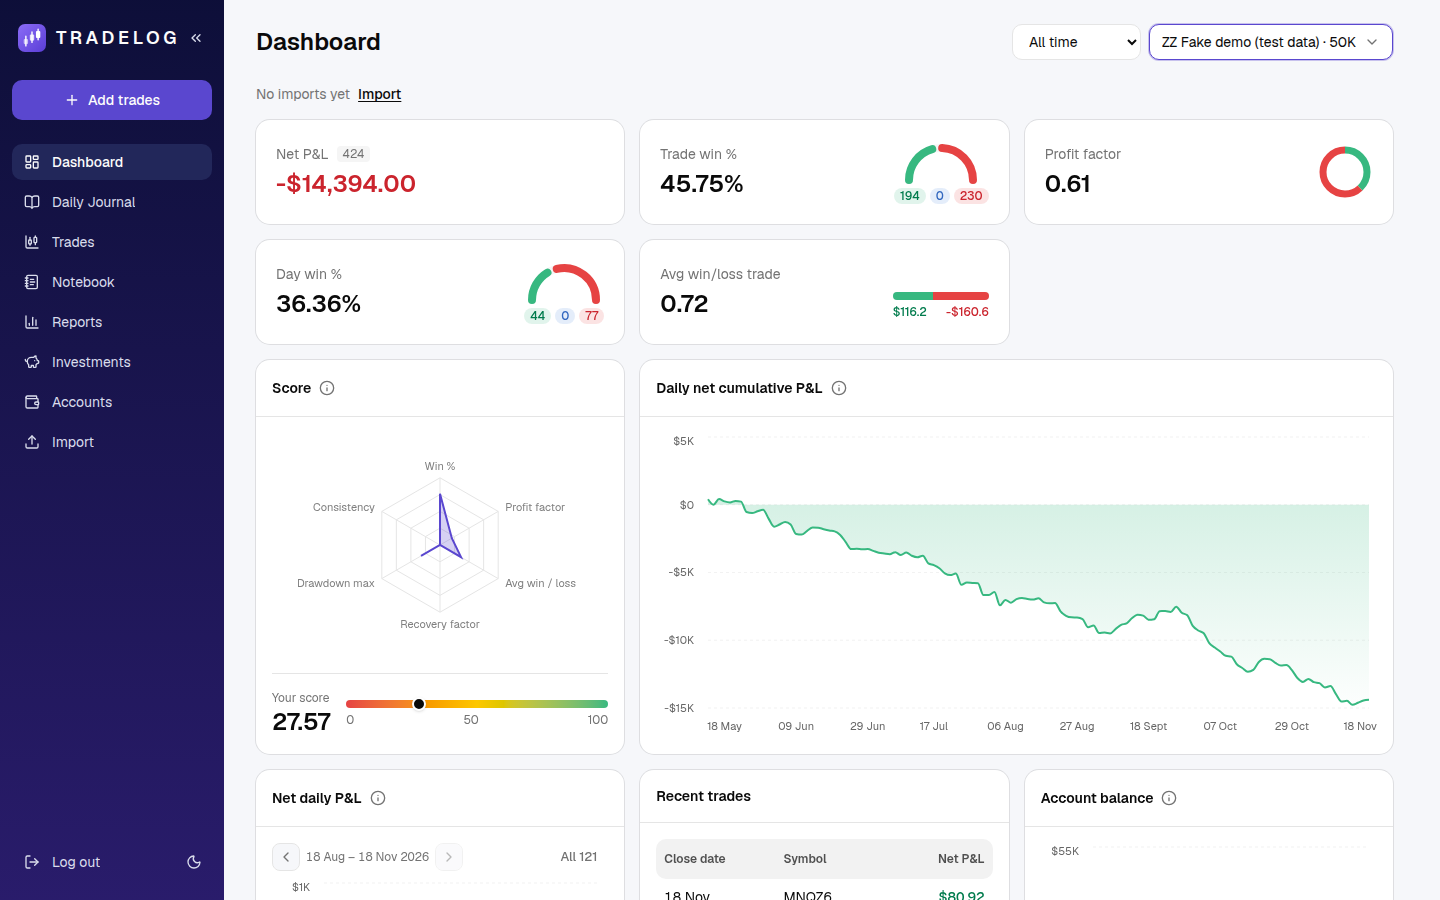
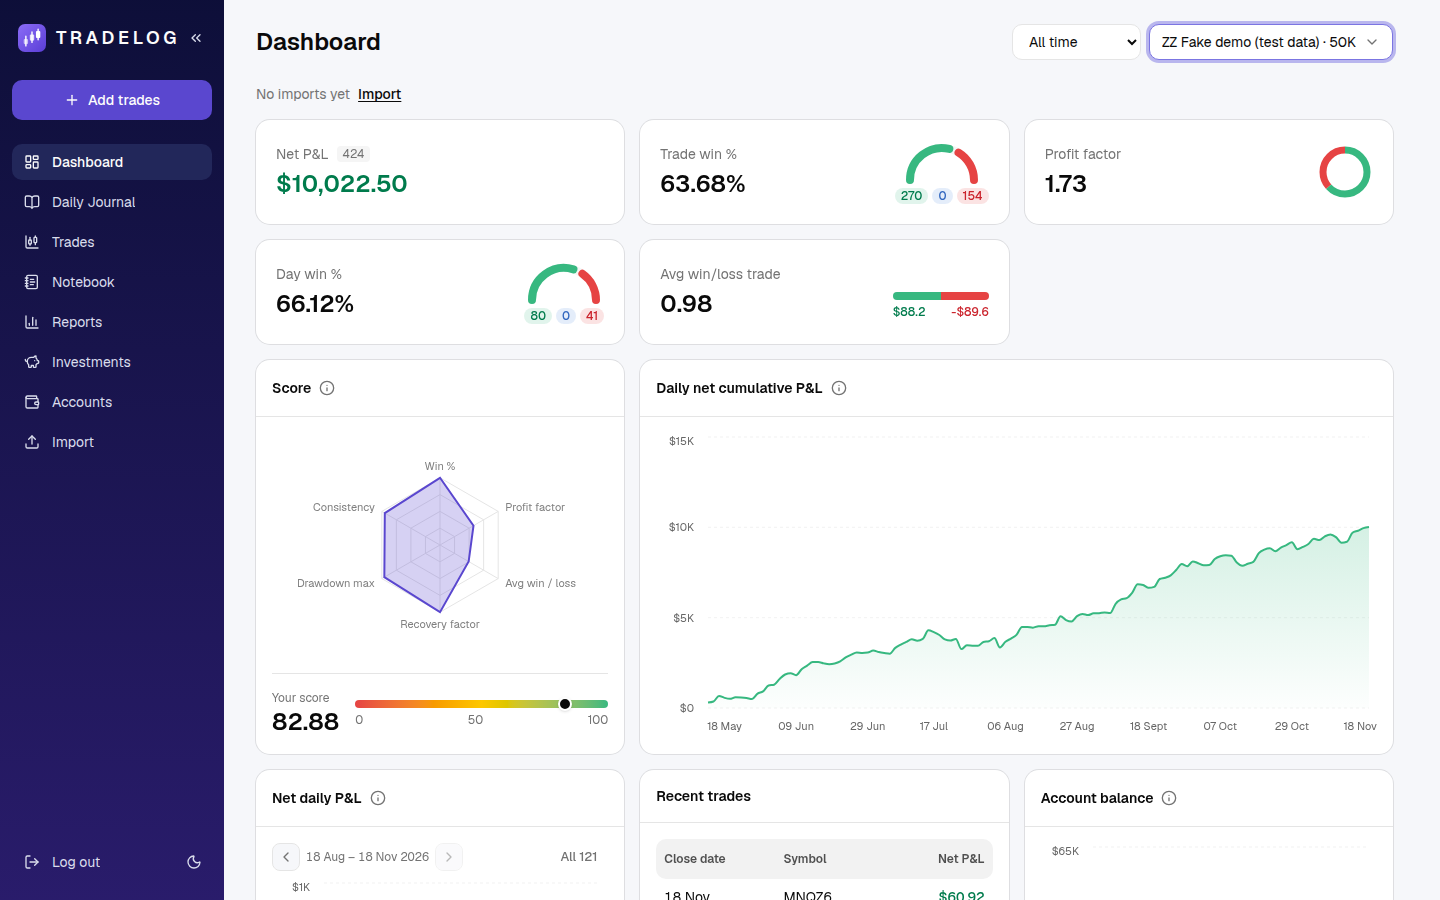
Add agent docs, profitable demo data and new screenshots

diff --git a/CLAUDE.md b/CLAUDE.md
@@ -1,0 +1,62 @@
+# Tradelog
+
+Application personnelle (usage solo) de suivi de trades et de journal pour le NQ et le MNQ. Projet personnel, pas professionnel.
+
+@AGENTS.md
+
+**Garder ce fichier court** : l'essentiel seulement, pas de détail qui se lit dans le code.
+
+## Contexte trading
+
+- Instruments : NQ et MNQ uniquement (tick 0,25 pt ; point = 20 $ / 2 $). Comptes de prop firms via Tradovate : un seul format d'import.
+- Règles par compte saisies à la main (rien en dur), calcul dans `src/lib/accounts/account-rules.ts` sur le P&L réalisé : approximatif, le latent n'est pas dans les fichiers.
+- **Journée de trading = session de futures : 18h → 17h heure de New York** (`dayKey`, `TRADING_TIMEZONE` dans `src/lib/trading/stats.ts`). Tout regroupement par jour passe par `dayKey`. Heures affichées en New York, étiquetées « ET ».
+- Win % et day win % excluent les break-even. Avg win/loss = gain moyen / perte moyenne.
+- **Break-even** : sortie entre −0,25 et +2,25 pt par contrat (`describeTrade`, `src/lib/trading/trade.ts`), forçable par trade (`break_even_override`). Les BE n'entrent ni dans gagnants ni dans perdants, mais leur argent reste dans le P&L.
+- Score (`src/lib/trading/score.ts`) : moyenne de 6 notes sur 100, repères empiriques.
+
+## Interface
+
+- Barre latérale sombre, cartes, gains verts / pertes rouges, accent violet. Mode clair et sombre (`.dark` sur `<html>`), couleurs par jeton dans `globals.css` (`--profit`, `--loss`, `--be`).
+- **Textes en anglais**, dates en jour/mois/année (locale `en-GB`), nombres en `en-US`.
+- Filtre de compte (`?account=`) : défaut par page (`defaultScopeFor`, `src/lib/filters.ts`). Un choix explicite l'emporte.
+- **Mobile** : sous 640 px ou écran tactile, tout contrôle ≥ 44 px et champs 16 px. Pas de défilement horizontal, pas de tableau large, toute grille de page a `grid-cols-1` en base.
+- **Graphiques** : pas d'animation Recharts sur les séries (coût proportionnel au nombre de trades). Les graphiques à fenêtres gardent une échelle verticale sur tout l'historique.
+- Titre d'onglet : une balise `<title>` dans chaque page (`PageHeader`), jamais `metadata.title` dans le layout.
+
+## Stack et conventions
+
+- Next.js 16 (App Router, `src/`, alias `@/*`), TypeScript, Tailwind 4, shadcn/ui sur Base UI, Recharts, Tiptap, Neon Postgres + Drizzle. Doc de Next dans `node_modules/next/dist/docs/` : la lire avant de coder.
+- `cacheComponents: true` : toute lecture de la base, de `cookies` ou de `searchParams` se fait dans un composant async sous `<Suspense>`. Une page `loading.tsx` par route.
+- Mutations : Server Actions (`"use server"`) avec `useActionState`, puis `refresh()`. **Chaque action commence par `await requireAuth()`** (un test le vérifie ; seules `login` et `logout` sont exemptées).
+- Accès : mot de passe unique (`APP_PASSWORD` 12+ caractères, `SESSION_SECRET` 32+), `src/proxy.ts`. En production, un mot de passe absent verrouille tout : ne jamais « corriger » en ouvrant.
+- Pages dans `src/app/(app)/`, composants dans `src/components/<page>/`, logique pure et testée dans `src/lib/<domaine>/` (tests à côté). Prettier : sans point-virgule, guillemets doubles, 100 colonnes.
+
+## Commandes
+
+- `npm run dev:test` : serveur de dev sur une branche Neon `test`. **`npm run dev` lit `.env.local`, donc la base réelle** : à éviter pour développer.
+- `npm test`, `npm run lint`, `npm run typecheck`, `npm run format:check`, `npm run build` : la CI les enchaîne, les lancer avant tout commit.
+- `npm run db:generate` après un changement de `src/db/schema.ts`. `npm run db:migrate` vise la base de `.env.local`.
+- `npm run backup` / `npm run restore -- <fichier>` : export / import JSON dans `backups/` (ignoré par git).
+- `scripts/seed-fake-trades.mjs [clear]` : faux historique sur la branche test seulement (refuse de tourner contre la base réelle).
+
+## Échelle et limites
+
+- Ne jamais lire toute une table pour filtrer en JS : `getTrades` et `getTradeResultsByAccount` chargent tous les trades, à remplacer par du SQL avant ~50 000 trades.
+- Neon gratuit : 1 Go, 100 CU-heures par mois, 6 h d'historique. Tout appel réveille la base : jamais de polling direct.
+- **Cache des pages** : un wrapper qui lit `searchParams` + un composant `"use cache"` qui reçoit des props sérialisables. Toute écriture de données appelle `afterWrite()` (action) ou `invalidateData()` (route) : `src/lib/cache-coverage.test.ts` le vérifie.
+
+## Import et synchro Tradovate
+
+- `Fills.csv` donne les trades ; `Cash History.csv` (facultatif) donne les frais réels. Trades reconstruits en FIFO par compte et contrat ; P&L net = brut − frais. Idempotent (clé = Fill ID). Ne jamais committer d'exports réels (identifiants de compte) : fixtures anonymisées.
+- La synchro tourne dans un runner GitHub Actions (`.github/workflows/cloud-sync.yml`, navigateur Playwright). Les routes `/api/sync/*` sont authentifiées par `SYNC_TOKEN`. Les logins Tradovate sont chiffrés (`CREDENTIALS_KEY`) : **jamais de login ni de secret dans git, les journaux ou un message**.
+- Un compte dont le solde a franchi le seuil est proposé « blown / closed » à confirmer, jamais changé automatiquement.
+
+## Notes et base de données
+
+- Notes en JSON Tiptap, nettoyées côté serveur (`src/lib/note.ts`, liste blanche).
+- Pas de `LIKE` sur une colonne `date`. Driver `neon-http` : pas de transactions interactives, utiliser `db.batch`.
+
+## Plus tard
+
+Bouton FR/EN, onglets Performance / Compare / Calendar des Reports, Progress Tracker, import de `Orders.csv` (stop loss, R-multiple).

diff --git a/AGENTS.md b/AGENTS.md
@@ -1,0 +1,14 @@
+# Consignes pour les agents de code
+
+Le contexte du projet, les conventions et les commandes sont dans `CLAUDE.md`. Ce fichier ne garde que les règles qui valent pour n'importe quel agent.
+
+## Next.js
+
+Cette version de Next.js (16) a des changements incompatibles avec les versions précédentes : API, conventions, structure des fichiers. Lire le guide concerné dans `node_modules/next/dist/docs/` avant d'écrire du code, et tenir compte des avertissements de dépréciation.
+
+## Règles
+
+- Ne jamais lancer de test ni de script contre la base réelle : utiliser la branche Neon `test` (`npm run dev:test`).
+- Aucun secret (mot de passe, clé, URL de base de données) dans un fichier, un commit ou un message. Ne pas lire les fichiers `.env*`.
+- Avant un commit : `npm run format:check`, `npm run lint`, `npm run typecheck` et `npm test`.
+- Ne pas committer, pousser ni appliquer une migration sans l'accord du propriétaire du dépôt.
